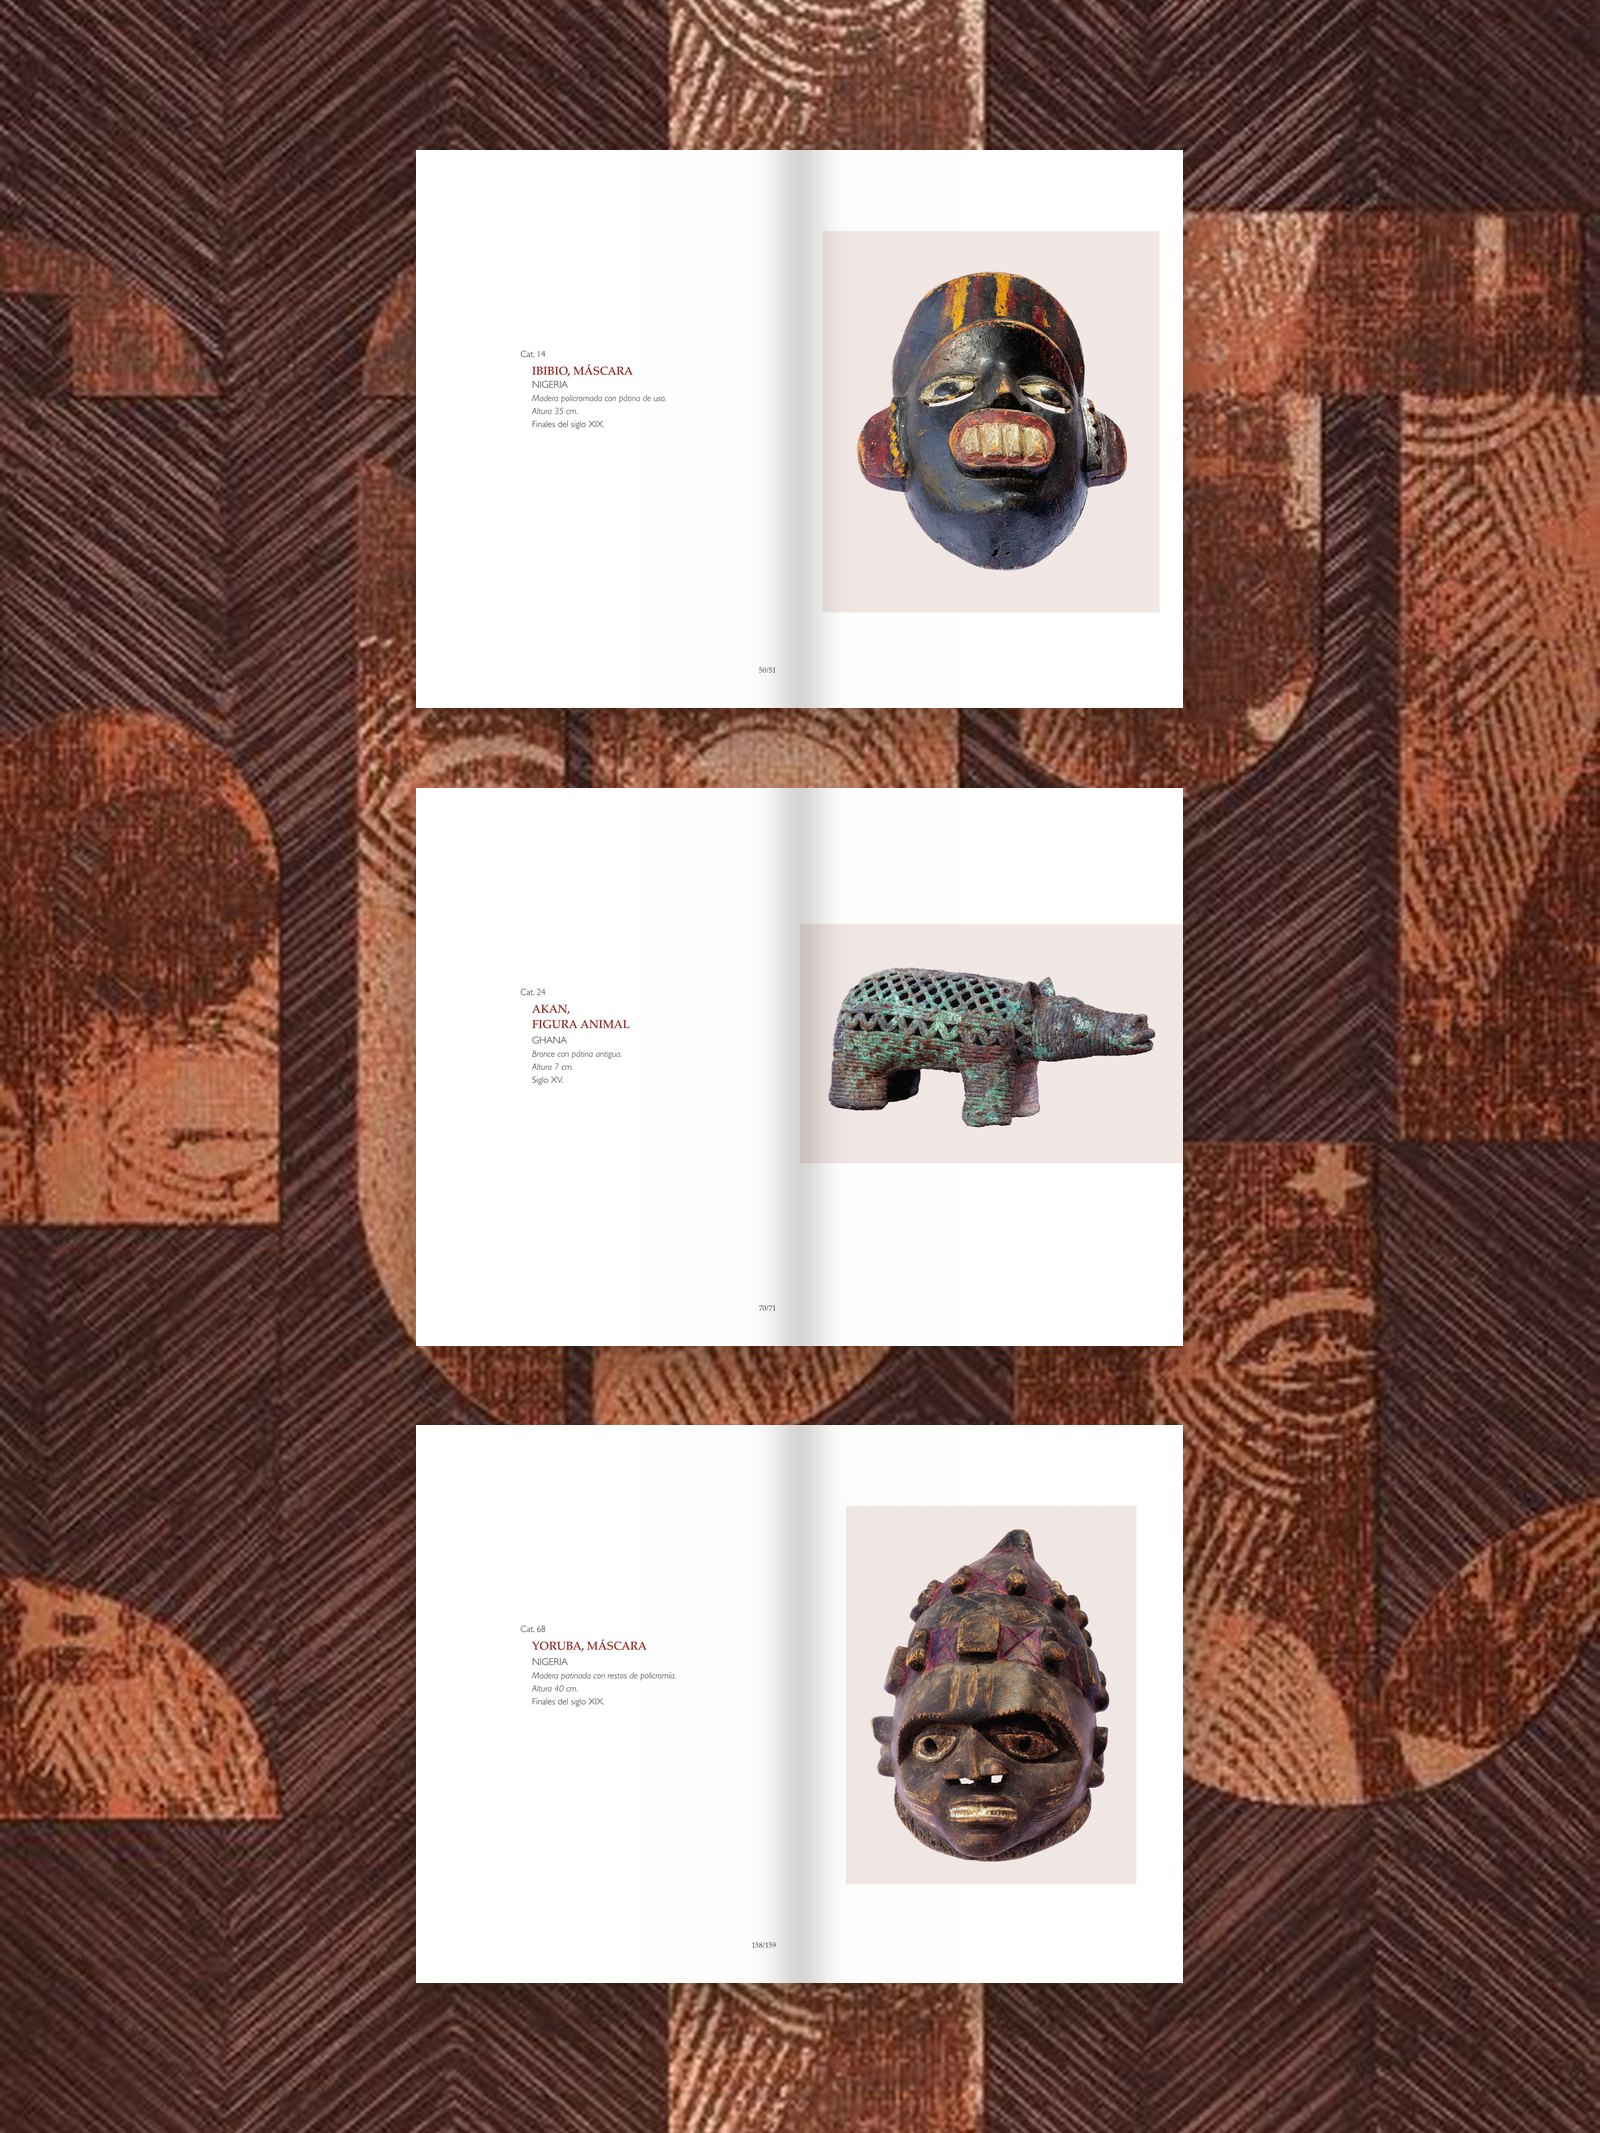
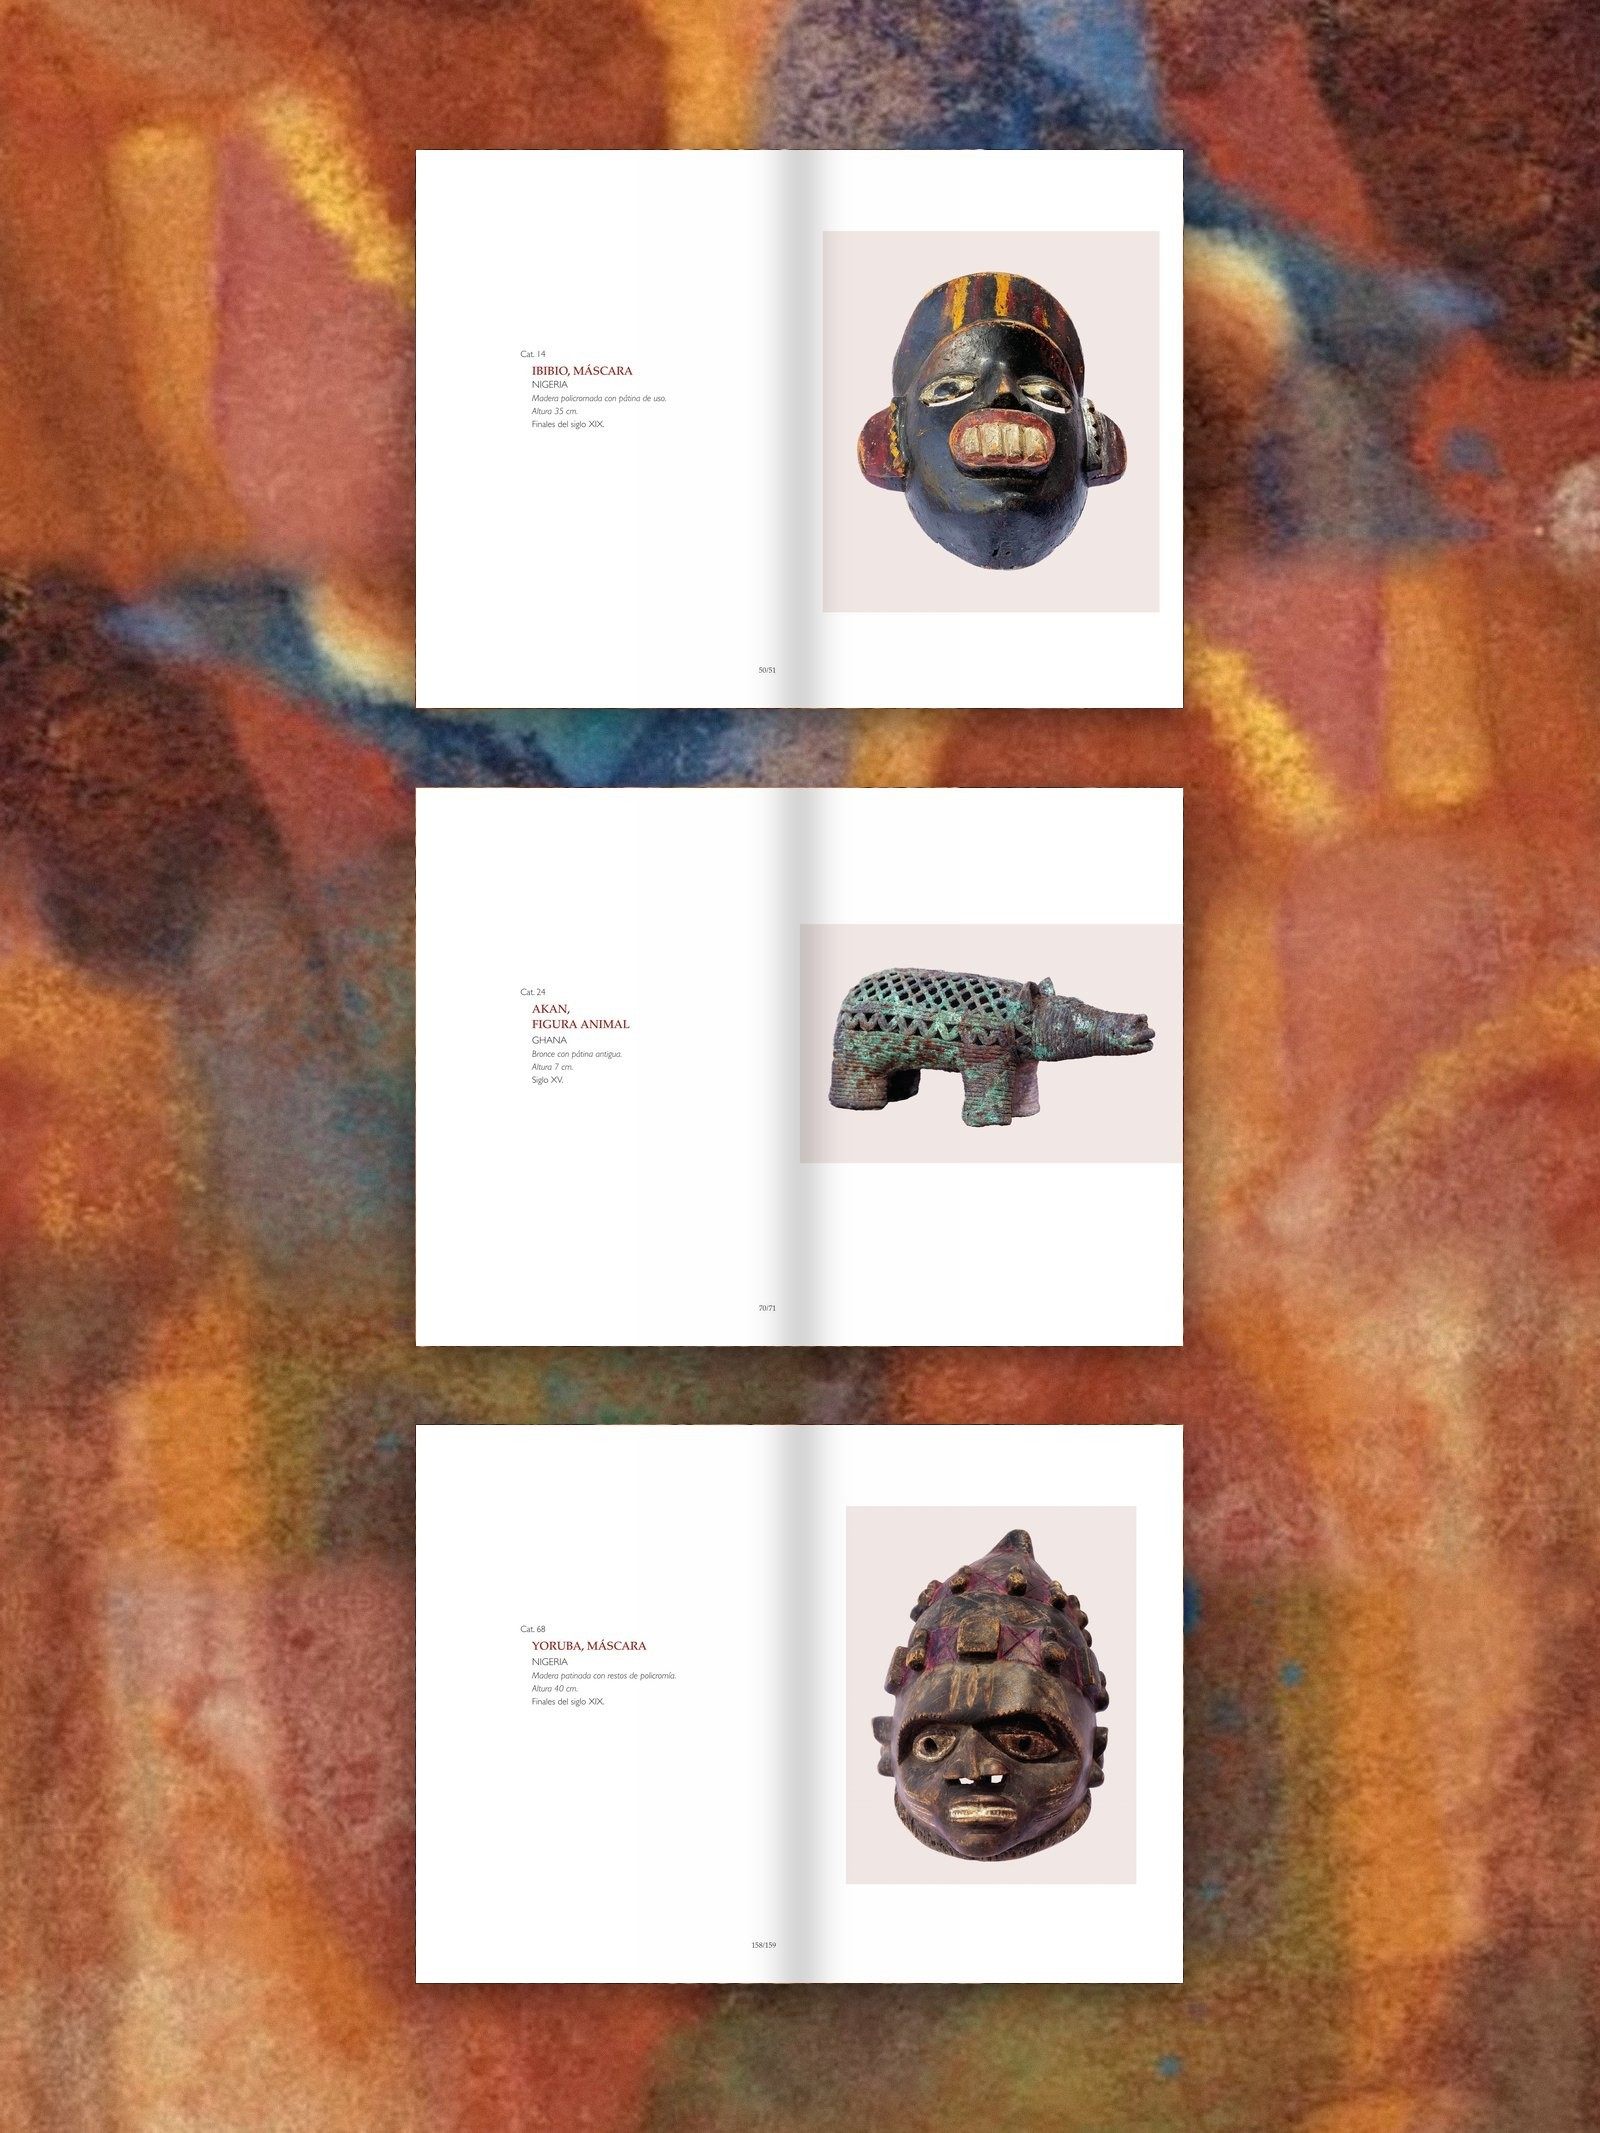
Fondos sin repetidos en Primitivismo y Territorios; móvil: luna sobre Instagram y textos alineados con su base
Claude-Session: https://claude.ai/code/session_014ZHEqD2MNxqjAg6cJYzQom

diff --git a/web/sitio/styles.css b/web/sitio/styles.css
@@ -804,10 +804,10 @@ html body #contact-dialog form{border:1px solid #9A0015;padding:18px 20px!import
 .site-header nav button.contact-chip:not(.modo-oscuro){color:#d4182b!important;text-shadow:0 1px 2px rgb(0 0 0 / 35%)}
 @media(hover:hover) and (pointer:fine){.site-header nav button:not(.modo-oscuro):hover,html.oscuro .site-header nav button:not(.modo-oscuro):hover{background:none!important;color:#fff!important}.site-header nav button.contact-chip:not(.modo-oscuro):hover{color:#ff3347!important}}
 
-/* Móvil: los textos de la cabecera en columna a la izquierda y la luna debajo */
+/* Móvil: los textos de la cabecera en columna a la izquierda, con la base del último a la altura de la base del Instagram; la luna, encima del Instagram */
 @media(max-width:600px){
-  .site-header{justify-content:flex-start!important;padding-left:max(18px,env(safe-area-inset-left,0px))!important;padding-right:84px!important}
+  .site-header{justify-content:flex-start!important;padding-left:max(18px,env(safe-area-inset-left,0px))!important;padding-right:84px!important;padding-bottom:calc(14px + env(safe-area-inset-bottom,0px))!important}
   .site-header nav{flex-direction:column!important;align-items:flex-start!important;gap:0!important}
   .site-header nav button:not(.modo-oscuro){padding:6px 0!important;height:auto!important;min-height:0!important;text-align:left;font-size:16px!important}
-  .site-header nav .modo-oscuro{width:34px!important;height:34px!important;justify-content:flex-start;place-items:center start;margin-top:2px}
+  .site-header nav .modo-oscuro{position:fixed!important;right:12px;bottom:calc(14px + 36px + 6px + env(safe-area-inset-bottom,0px));width:36px!important;height:36px!important;margin:0}
 }
